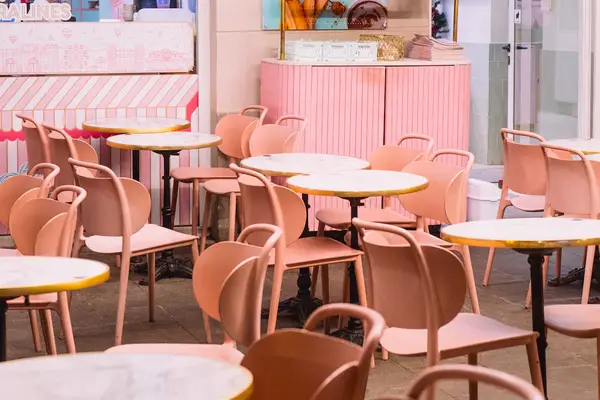
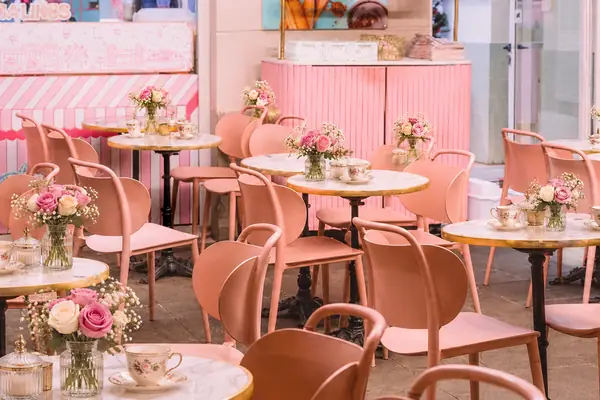
Add files via upload

diff --git a/index.html b/index.html
@@ -35,7 +35,7 @@
     <section class="container center">
       <h2>Välkommen in</h2>
       <p>Hos oss kan du ta en paus från vardagen med en kopp kaffe och något gott. Vi bakar allt själva varje morgon.
-      Sätt dig i lugn och ro bland blommor och rosa detaljer – med en vän, din familj eller en bra bok.</p>
+      Sätt dig i lugn och ro bland blommor och rosa detaljer eller med en vän, din familj eller en bra bok.</p>
     </section>
 
     <section class="rosa">
@@ -96,7 +96,7 @@
         </div>
         <div class="slide">
           <img src="bilder/bildspel-4.webp" alt="En kardemummabulle på ett fat" width="600" height="400" loading="lazy">
-          <p>Kaffe och bulle – den perfekta fikan</p>
+          <p>Kaffe och bulle är den perfekta fikan</p>
         </div>
 
         <button class="prev" onclick="plusSlides(-1)">&#10094;</button>
@@ -110,7 +110,7 @@
     <div class="footer-grid">
       <section>
         <h3>Swedish Fika</h3>
-        <p>Kaffe, bullar och kakor – nybakat varje dag.</p>
+        <p>Kaffe, bullar och kakor. Nybakat varje dag.</p>
       </section>
       <section>
         <h3>Öppettider</h3>

diff --git a/meny.html b/meny.html
@@ -143,7 +143,7 @@
     <div class="footer-grid">
       <section>
         <h3>Swedish Fika</h3>
-        <p>Kaffe, bullar och kakor – nybakat varje dag.</p>
+        <p>Kaffe, bullar och kakor. Nybakat varje dag.</p>
       </section>
       <section>
         <h3>Öppettider</h3>

diff --git a/integritetspolicy.html b/integritetspolicy.html
@@ -54,7 +54,7 @@
     <div class="footer-grid">
       <section>
         <h3>Swedish Fika</h3>
-        <p>Kaffe, bullar och kakor – nybakat varje dag.</p>
+        <p>Kaffe, bullar och kakor. Nybakat varje dag.</p>
       </section>
       <section>
         <h3>Öppettider</h3>

diff --git a/kontakt.html b/kontakt.html
@@ -58,7 +58,7 @@
     <div class="footer-grid">
       <section>
         <h3>Swedish Fika</h3>
-        <p>Kaffe, bullar och kakor – nybakat varje dag.</p>
+        <p>Kaffe, bullar och kakor. Nybakat varje dag.</p>
       </section>
       <section>
         <h3>Öppettider</h3>

diff --git a/om-oss.html b/om-oss.html
@@ -61,7 +61,7 @@
     <div class="footer-grid">
       <section>
         <h3>Swedish Fika</h3>
-        <p>Kaffe, bullar och kakor – nybakat varje dag.</p>
+        <p>Kaffe, bullar och kakor. Nybakat varje dag.</p>
       </section>
       <section>
         <h3>Öppettider</h3>
